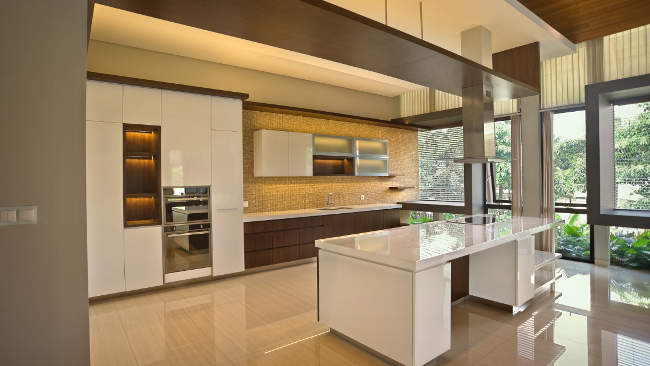
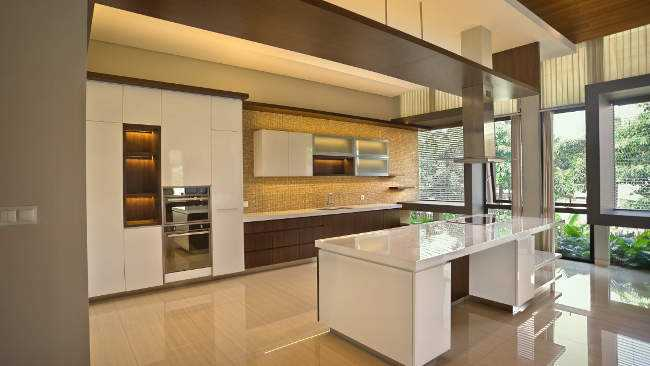
optimize image size, update home.php(view)

Changed region(s): [[0.8615, 0.6011, 0.9538, 0.6612], [0.9538, 0.6311, 1.0, 0.6913], [0.1846, 0.3607, 0.2154, 0.3907]]

diff --git a/application/views/public/home.php b/application/views/public/home.php
@@ -3,7 +3,7 @@
     $this->load->view('public/public_template/header');
 ?>
             <!-- Home Section -->
-            <section class="home-section bg-color-lighter parallax-2" data-background="/assets/images/showroom-inerre/main_page_3.jpg" id="home">
+            <section class="home-section bg-color-lighter parallax-2" data-background="/assets/images/home/main_page_3.jpg" id="home">
                 <div class="js-height-full">
                     <!-- Hero Content -->
                     <div class="home-content">
@@ -11,9 +11,11 @@
                             <!-- <h1 class=" textshadowblack hs-line-1 font-alt mb-50 mb-xs-50 mt-50 mb-xs-0 inerre-brown">
                                 INERRE
                             </h1> -->
+                            <!-- logo for non mobile / extra small device -->
                             <div class="hidden-xs mb-10 mb-xs-50 mt-50 mb-xs-0">
                                 <img src="/assets/images/inerrelogo.png" class="center-block img-responsive" alt="">
                             </div>
+                            <!-- logo for mobile / extra small device -->
                             <div class="hidden-sm hidden-md hidden-lg mb-50 mb-xs-50 mt-50 mb-xs-0 ">
                                 <img src="/assets/images/inerrelogo.png" width="220px" class="center-block" style="background:rgba(0,0,0, .70);" alt="">
                             </div>    
